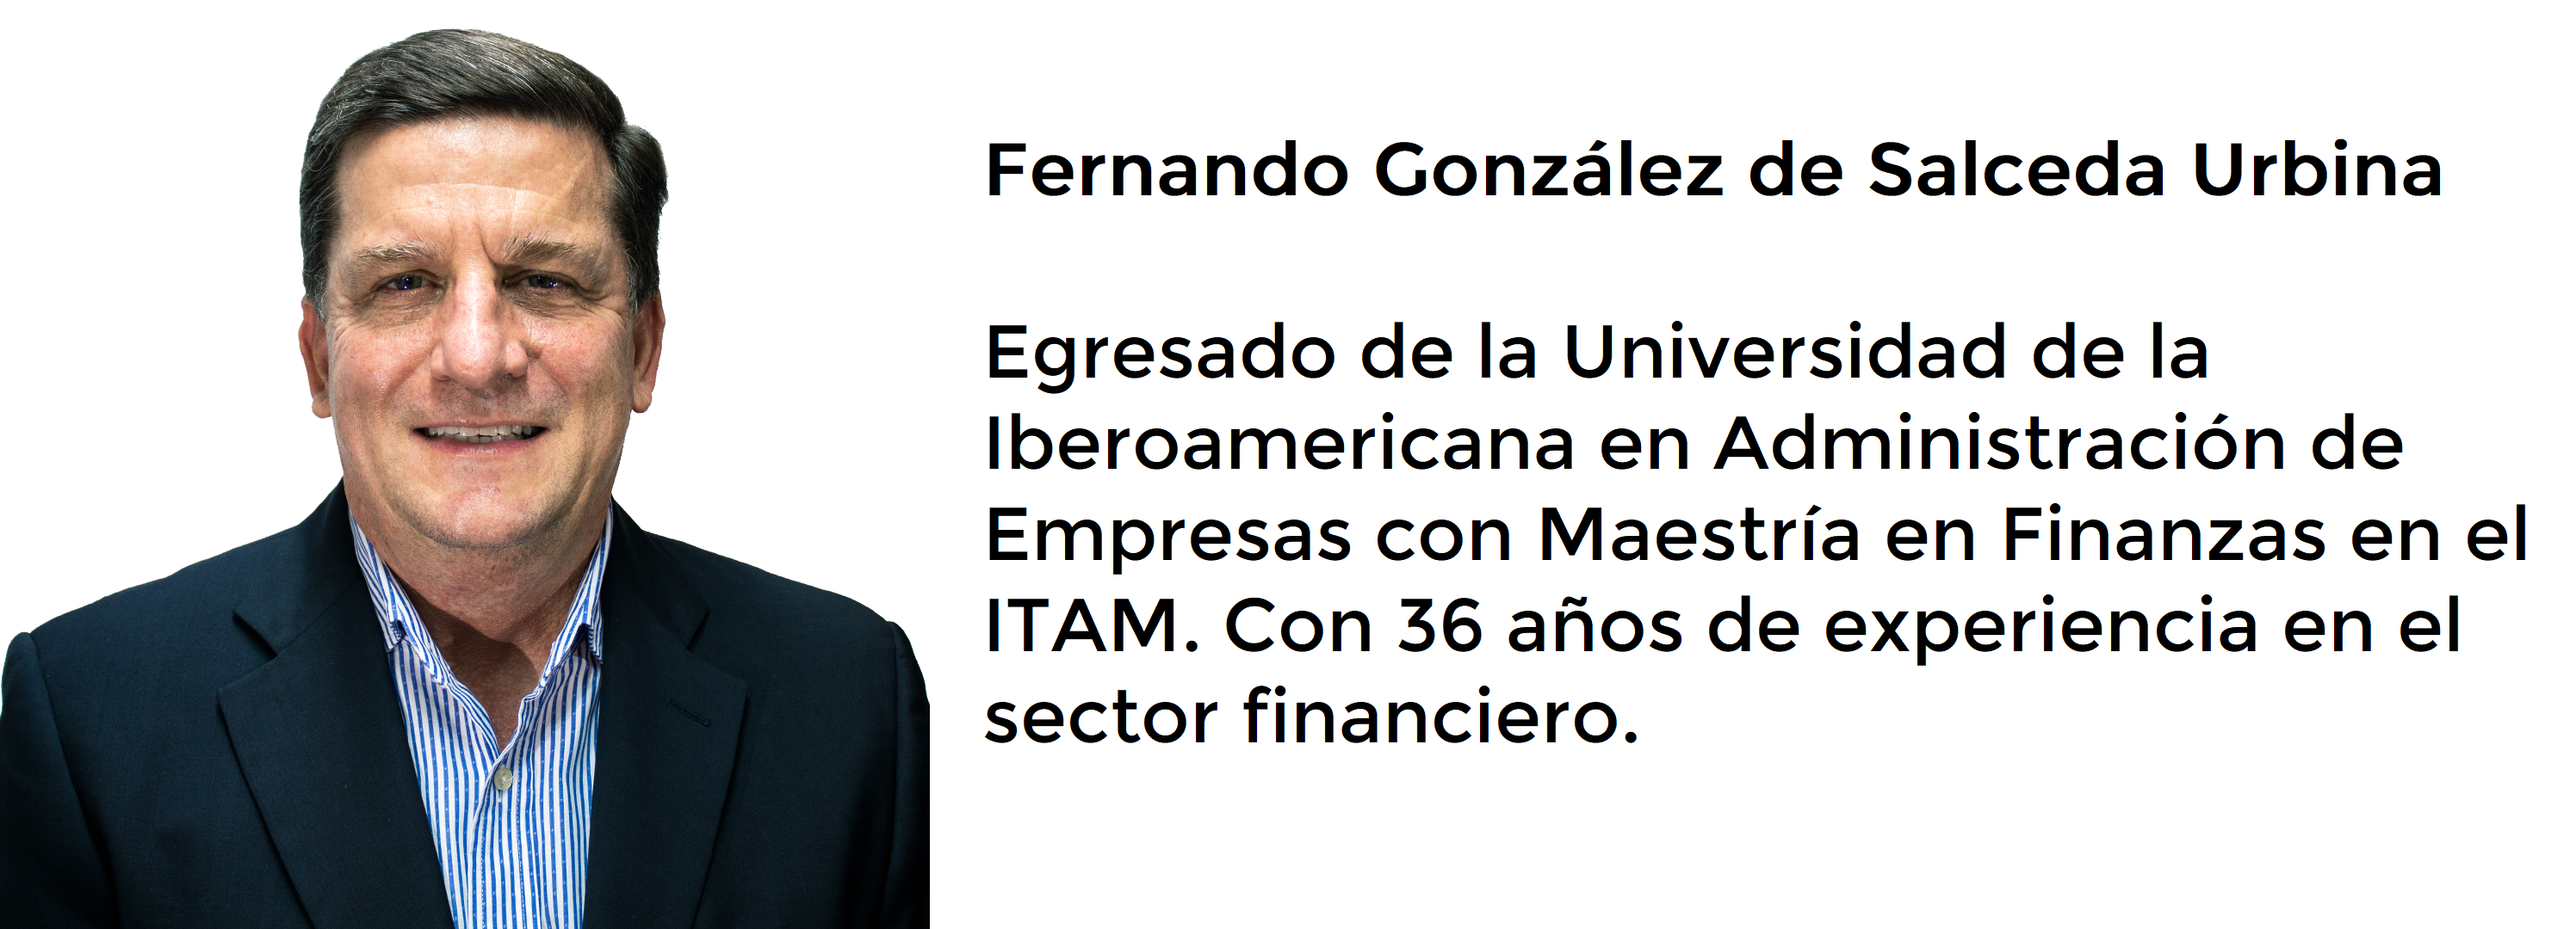
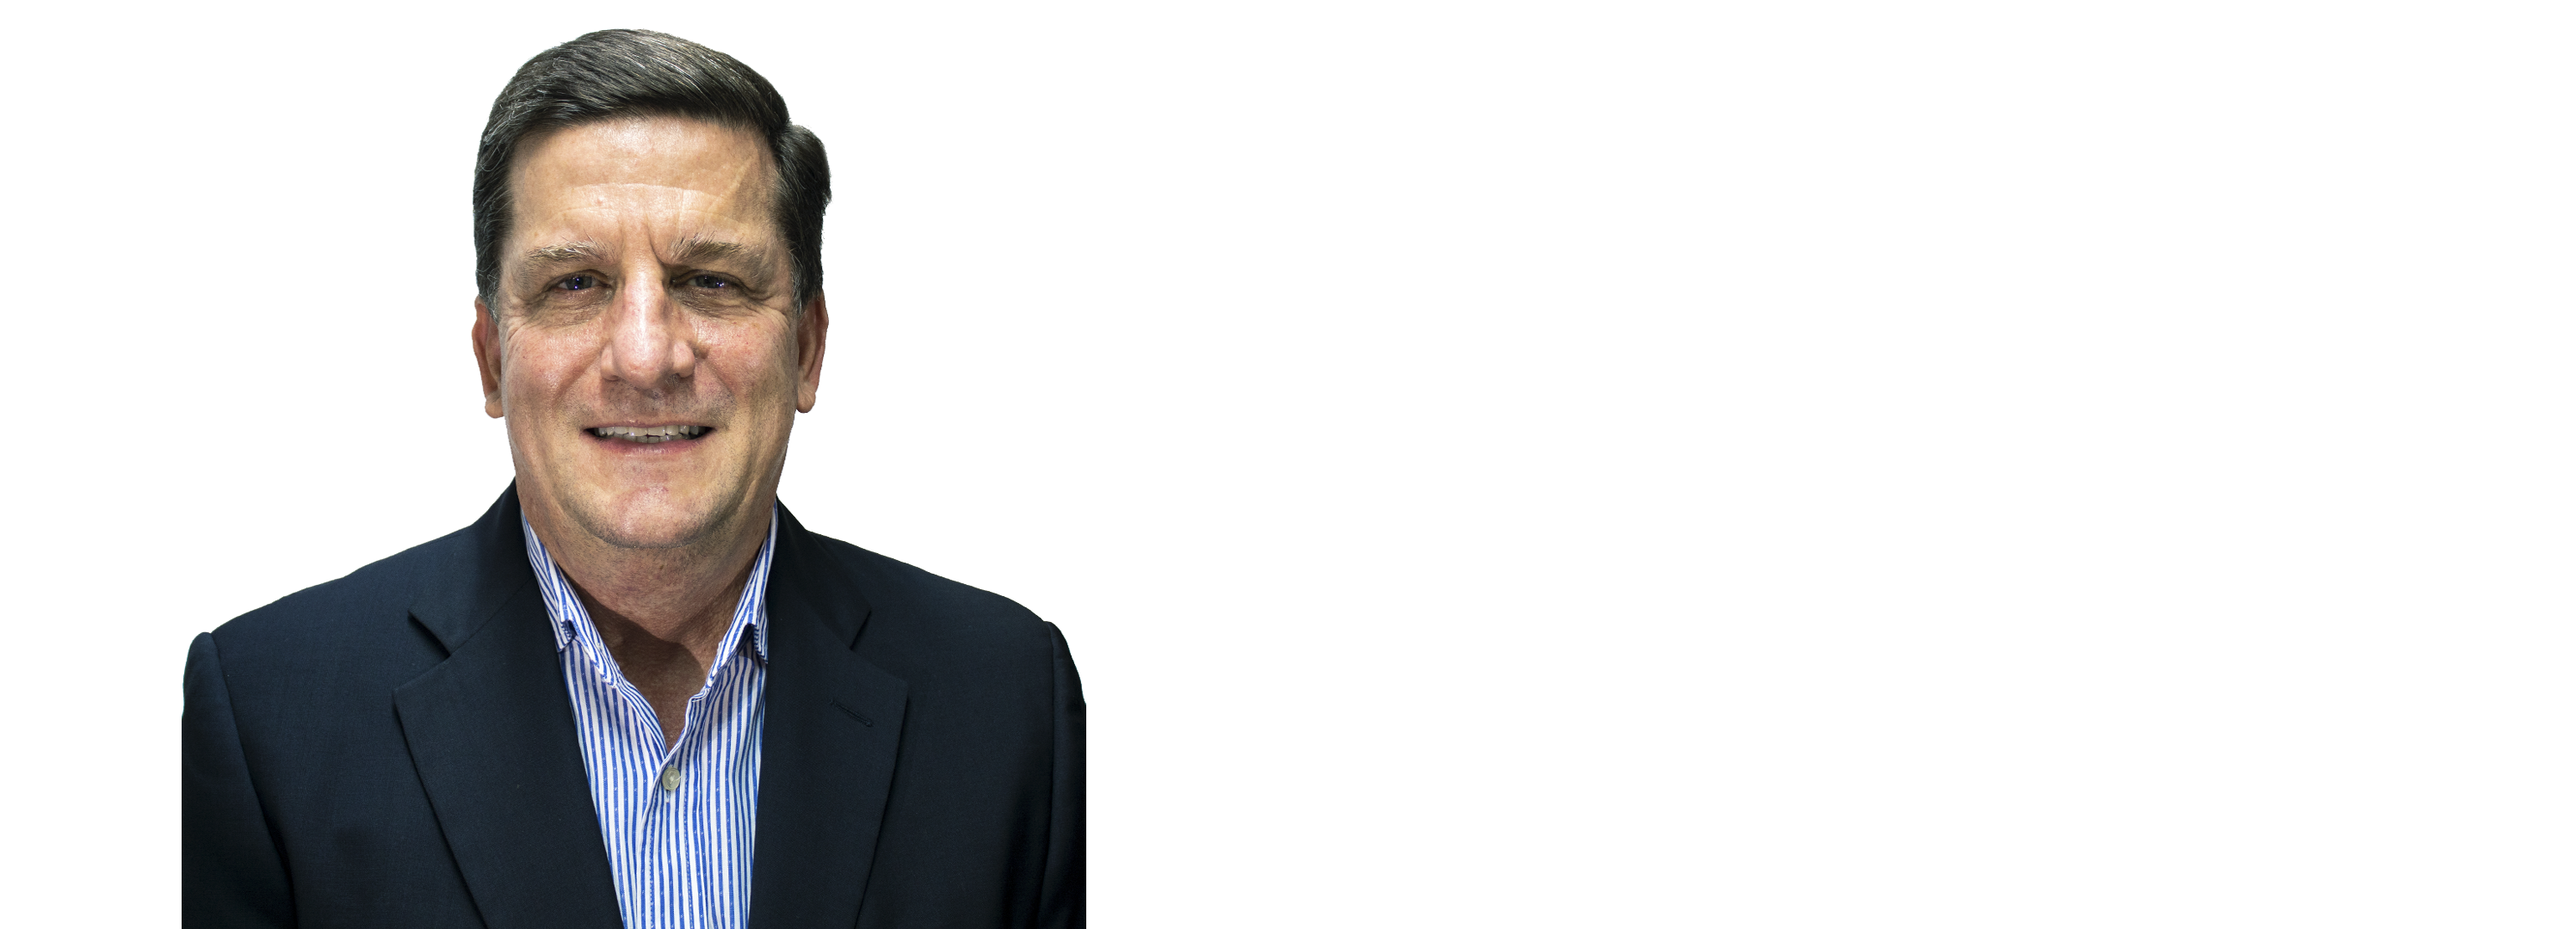
Se agregó modificaciones de diseño aun queda pendiente el panel administrativo

Changed region(s): [[0.0, 0.0306, 0.9987, 1.0], [0.3745, 0.3361, 0.9362, 0.5194], [0.3745, 0.1528, 0.9674, 0.2139]]

diff --git a/public/css/Page/style_main.css b/public/css/Page/style_main.css
@@ -22,7 +22,7 @@ div{
 }
 
 .background-nav{
-	background-color: rgb(0, 72, 119, 0.3) !important;
+	background-color: rgb(0, 72, 119) !important;
 }
 
 .background-service{
@@ -437,4 +437,85 @@ div{
 
 .bg-aserfi-video{
 	background-color: #03293E;
+}
+
+.titulo-secciones-azul{
+	border-right-color: transparent !important;
+    border-left-color: transparent !important;
+    border-bottom-color: #004270;
+    border: 3px solid;
+    padding: 5px;
+}
+
+.titulo-secciones-blanco{
+	border-right-color: transparent !important;
+    border-left-color: transparent !important;
+    border-bottom-color: #FFF;
+    border: 3px solid;
+    padding: 5px;
+}
+
+/* Fundadores */
+.carousel-caption-fundadores{
+	/*background-color: rgb(0, 72, 119, 0.3);*/
+	padding: 15px;
+	text-align: left;/*justify;*/
+	color: #000;
+	right: 10%;
+    bottom: 10px;
+    top: 10px;
+    left: 45%;
+}
+
+.carousel-caption-fundadores p {
+    font-size: 14px;
+	line-height: 18px;
+}
+ 
+.carousel-caption-fundadores h2 {
+	font-size: 20px;
+    line-height: 30px;
+    margin-top: 0px;
+}
+
+.carousel-caption-fundadores .h4 {
+	font-size: 20px;
+    margin-bottom: 30px;
+	margin-top: 8px;
+}
+ 
+.carousel-caption-fundadores img {
+	display: block;
+    max-width: 100%;
+    height: auto;
+    margin: 0 auto;
+}
+ 
+.carousel-caption-fundadores a {
+	border-radius: 0;
+    font-weight: bold;
+    color: #291701;
+	border: none;
+}
+
+
+.carousel-control-prev-icon-fundadores,
+.carousel-control-next-icon-fundadores {
+  height: 100px;
+  width: 100px;
+  
+  background-image: none;
+}
+
+.carousel-control-next-icon-fundadores:after
+{
+  content: '〉';
+  font-size: 55px;
+  color: #CBCBCB;
+}
+
+.carousel-control-prev-icon-fundadores:after {
+  content: '〈';
+  font-size: 55px;
+  color: #CBCBCB;
 }

diff --git a/public/js/Page/JSGeneric.js b/public/js/Page/JSGeneric.js
@@ -16,6 +16,17 @@ $(document).ready(function () {
     }, 1500);
   });
 
+  $( ".hover-title" ).hover(function() {
+    $( this ).removeClass("fadeInLeft animated");
+    setTimeout(function(){
+       $( this ).addClass("fadeInLeft animated");
+    }, 250);
+  }, function() {
+    $( this ).addClass("fadeInLeft animated");
+    
+    
+  });
+
   $('#financiamiento-tab').on('click', function (e) {
     $('#financiamiento-tab').removeClass('jello animated');
     setTimeout(function(){
@@ -36,27 +47,4 @@ $(document).ready(function () {
       $('#patrimonio-tab').addClass('jello animated');
     }, 250);
   });
-
-  new Chart(document.getElementById("pie-chart-1"), {
-    type: 'pie',
-    data: {
-      labels: ["SEGURIDAD", "INTERNACIONALIZACIÓN", "MEJORA DE RENDIMIENTOS"],
-      datasets: [{
-        backgroundColor: ["#00375D", "#3275B3", "#064E8B"],
-        data: [30, 30, 30]
-      }]
-    },
-    options: {
-      legend: {
-        display: false
-      },
-      responsive: true,
-      title: {
-        display: true,
-        text: ''
-      }
-    }
-  });
-
-
 });

diff --git a/resources/views/Page/Index.blade.php b/resources/views/Page/Index.blade.php
@@ -4,7 +4,7 @@
 	<!-- Required meta tags-->
     <meta charset="UTF-8">
     <meta name="viewport" content="width=device-width, initial-scale=1, shrink-to-fit=no">
-    <meta name="description" content="au theme template">
+    <meta name="description" content="Somos una firma de profesionales especializados en el sector financiero, nuestro modelo de negocios se basa en capitalizar la competencia entre instituciones bancarias, para obtener las condiciones más rentables para nuestros clientes, así como los mejores tiempos de respuesta posibles.">
     <meta name="author" content="Arthur CD & Cindy CV">
     <meta name="keywords" content="au theme template">
     <meta name="csrf-token" content="{{ csrf_token() }}">
@@ -84,13 +84,25 @@
 	  				</ol>
   					<div class="carousel-inner carousel-inner-index">
     					<div class="carousel-item active">
-      						<img class="d-block w-100" src="{{asset('img/slider/seccion1.png')}}" alt="First slide">
+      						<img class="d-block w-100" src="{{asset('img/slider/Banner_1_Seccion1.png')}}" alt="First slide">
       						<div class="carousel-caption d-none d-md-block center-text-carousel">
                     <h1 class="bounceIn animated h1-class">LA SITUACIÓN DEL MERCADO</h5>
                     <h1 class="bounceIn animated h1-class"><b>A TU FAVOR</b></h5>
                     <p></p>
                   </div>
     					</div>
+              <div class="carousel-item ">
+                  <img class="d-block w-100" src="{{asset('img/slider/Banner_2_Seccion1.png')}}" alt="First slide">
+                  
+              </div>
+              <div class="carousel-item ">
+                  <img class="d-block w-100" src="{{asset('img/slider/Banner_3_Seccion1.png')}}" alt="First slide">
+                  
+              </div>
+              <!--<div class="carousel-item ">
+                  <img class="d-block w-100" src="{{asset('img/slider/Banner_4_Seccion1.png')}}" alt="First slide">
+                  
+              </div>-->
   					</div>
 	  				<a class="carousel-control-prev" href="#carouselIndicators" role="button" data-slide="prev">
     					<span class="carousel-control-prev-icon" aria-hidden="true"></span>
@@ -116,7 +128,7 @@
 	<div id="quienessomos">
 		<div class="container">
 			<div class="col-lg-12">
-				<h1 class="text-center fadeInLeft animated"><b>¿QUIÉNES SOMOS?</b></h1>
+				<h1 class="text-center hover-title fadeInLeft animated"><b class="titulo-secciones-azul">¿QUIÉNES SOMOS?</b></h1>
 				<div class="row">
           <div class="col-lg-1"> </div>
           <div class="col-lg-10">
@@ -136,26 +148,30 @@
                     <div class="carousel-inner">
                       <div class="carousel-item active">
                         <img class="d-block w-100" src="{{asset('img/fundadores/fundador_slider01.png')}}" alt="First slide">
-                        <div class="carousel-caption d-none d-md-block center-text-carousel">
-                          
+                        <div class="carousel-caption carousel-caption-fundadores">
+                          <h2><b>Fernando González de Salceda Urbina</b></h2>
+                          <p class="h4">Egresado de la Universidad de la Iberoamericana en Administración de Empresas con Maestría en Finanzas en el ITAM. Con 36 años de experiencia en el sector financiero.</p>
                         </div>
                       </div>
 
                       <div class="carousel-item">
                         <img class="d-block w-100" src="{{asset('img/fundadores/fundador_slider02.png')}}" alt="First slide">
-                        <div class="carousel-caption d-none d-md-block center-text-carousel">
-                          
+                        <div class="carousel-caption carousel-caption-fundadores">
+                          <h2><b>Fernando González de Salceda Heshem</b></h2>
+                          <p class="h4">Egresado del Tecnológico de monterrey Campus Monterrey de la carrera de Ingeniería industrial con certificación en figura 3 de la Asociación Mexicana de Intermediario Bursátiles</p>
                         </div>
                       </div>
                     </div>
-                    <!--<a class="carousel-control-prev" href="#indicators" role="button" data-slide="prev">
-                      <span class="carousel-control-prev-icon" aria-hidden="true"></span>
+
+                    <a class="carousel-control-prev" href="#indicators" role="button" data-slide="prev">
+                      <span class="carousel-control-prev-icon carousel-control-prev-icon-fundadores" aria-hidden="true"></span>
                       <span class="sr-only">Previous</span>
                     </a>
                     <a class="carousel-control-next" href="#indicators" role="button" data-slide="next">
-                      <span class="carousel-control-next-icon" aria-hidden="true"></span>
+                      <span class="carousel-control-next-icon carousel-control-next-icon-fundadores" aria-hidden="true"></span>
                       <span class="sr-only">Next</span>
-                    </a>-->
+                    </a>
+
                   </div>
                 </div>
               </div>
@@ -168,7 +184,7 @@
 	</div>
 
     <!-- Quienes Somos -->
-  <div id="video-aserfi" class="bg-aserfi-video" style="margin-top: 50px; margin-bottom: 50px;">
+  <div id="video-aserfi" class="bg-aserfi-video" style="margin-top: 50px; margin-bottom: 1px;">
     <div class="container">
       <div class="col-lg-12">
         <div class="row">
@@ -189,11 +205,9 @@
 		<div class="container color-nav-text">
 			<div class="col-lg-12" >
         <div class="row">
-          <div class="col-lg-1"> </div>
-          <div class="col-lg-10">
-            <h1 style="padding-top: 50px;"><b>SERVICIOS</b></h1>
+          <div class="col-lg-12 text-center">
+            <h1 class="hover-title " style="padding-top: 50px;"><b class="titulo-secciones-blanco">SERVICIOS</b></h1>
           </div>
-          <div class="col-lg-1"> </div>
         </div>
 				<div class="row" >
           <div class="col-lg-1"> </div>
@@ -260,7 +274,7 @@
 	<div id="beneficios">
 		<div class="">
 			<div class="col-lg-12 ">
-				<h1 class="text-center"><b>BENEFICIOS</b></h1>
+				<h1 class="text-center hover-title "><b class="titulo-secciones-azul">BENEFICIOS</b></h1>
           
 					<ul class="nav nav-fill nav-tabs nav-beneficios" id="tabBeneficios" role="tablist" style="margin-top: 40px; margin-bottom: 39px;">
   						<li class="nav-item">
@@ -277,7 +291,7 @@
 				<div class="tab-content">
 					<div class="tab-pane active" id="financiamiento" role="tabpanel" aria-labelledby="financiamiento-tab">
 						
-						<div class="row fadeInLeft animated">
+						<div class="row hover-title fadeInLeft animated">
 							<div class="rectangle-md">
 								<div class="col-lg-12 arrow-center">
 									AHORROS EN TIEMPO DE RESPUESTA
@@ -285,7 +299,7 @@
 							</div>
 							<div class="arrow-md" style="border-left: 50px solid #152C50 !important"></div>
 						</div>
-						<div class="row fadeInLeft animated">
+						<div class="row hover-title fadeInLeft animated">
 							<div class="rectangle-md" style="background-color: #284778 !important; width: 63% !important;">
 								<div class="col-lg-12 arrow-center">
 									ELABORACIÓN DE PROYECTOS A LA MEDIDA
@@ -293,7 +307,7 @@
 							</div>
 							<div class="arrow-md" style="border-left: 50px solid #284778 !important"></div>
 						</div>
-						<div class="row fadeInLeft animated">
+						<div class="row hover-title fadeInLeft animated">
 							<div class="rectangle-md" style="background-color: #284778 !important; width: 67% !important;">
 								<div class="col-lg-12 arrow-center">
 									SELECCIÓN DE INSTITUCIÓN ESPECIALIZADA
@@ -301,7 +315,7 @@
 								</div>
 							<div class="arrow-md" style="border-left: 50px solid #284778 !important"></div>
 						</div>
-						<div class="row fadeInLeft animated">
+						<div class="row hover-title fadeInLeft animated">
 							<div class="rectangle-md" style="background-color: #4275B1 !important; width: 75% !important;">
 								<div class="col-lg-12 arrow-center">
 									MEJORA DE TÉRMINOS Y CONDICIONES
@@ -309,7 +323,7 @@
 							</div>
 							<div class="arrow-md" style="border-left: 50px solid #4275B1 !important"></div>
 						</div>
-						<div class="row fadeInLeft animated">
+						<div class="row hover-title fadeInLeft animated">
 							<div class="rectangle-md" style="background-color: #4E74B1 !important; width: 70% !important;">
 								<div class="col-lg-12 arrow-center">
 									MITIGACIÓN DE RIESGOS
@@ -321,23 +335,23 @@
 					</div>
 
 					<div class="tab-pane" id="inversiones" role="tabpanel" aria-labelledby="inversiones-tab">
-            <div class="row">
-              <div class="col-lg-4 col-sm-4"></div>
-              <div class="col-lg-4 col-sm-4 jello animated">
-                <canvas id="pie-chart-1" width="50" height="50"></canvas>
+            <div class="row fadeInLeft animated">
+              <div class="col-lg-2"></div>
+              <div class="col-lg-8">
+                <img class="d-block w-100" src="{{asset('img/beneficios/inversiones.png')}}" alt="First slide">
               </div>
-              <div class="col-lg-4 col-sm-4"></div>
+              <div class="col-lg-2"></div>
             </div>
 					</div>
   				<div class="tab-pane" id="patrimonio" role="tabpanel" aria-labelledby="patrimonio-tab">
-						<div class="row fadeInLeft animated">
+						<div class="row hover-title fadeInLeft animated">
               <div class="rectangle-md" style="background-color: #284778 !important; width: 50% !important;">
                 <div class="col-lg-12 arrow-center">
                   ASESORAMIENTO
                 </div>
               </div>
             </div>
-            <div class="row fadeInLeft animated">
+            <div class="row hover-title fadeInLeft animated">
               <div class="rectangle-md" style="background-color: #4275B1 !important; width: 60% !important;">
                 <div class="col-lg-12 arrow-center">
                   DIVERSIFICACIÓN
@@ -345,7 +359,7 @@
               </div>
               
             </div>
-            <div class="row fadeInLeft animated">
+            <div class="row hover-title fadeInLeft animated">
               <div class="rectangle-md" style="background-color: #4E74B1 !important; width: 70% !important;">
                 <div class="col-lg-12 arrow-center">
                   RENTABILIDAD  
@@ -407,19 +421,16 @@
     	  					<a href="#" class="btn btn-success btn-aserfi btn-round">
     	  						<i class="fas fa-map-marker-alt"></i>
     	  					</a>
-        					<span style="margin-left: 15px;"><b>Ubicación</b></span>
+        					<span style="margin-left: 15px;">Calle 16 No. 61A x 3 y 5 C.P. 97139</span>
         					<ol style="margin-left: 20px;">
-        						Calle 16 No. 61A x 3 y 5 C.P. 97139 </br>San Antonio Cinta. Mérida, Yucatán.
+        						 San Antonio Cinta. Mérida, Yucatán.
         					</ol>
       						
       						<a href="#" class="btn btn-success btn-aserfi btn-round">
     	  						<i class="fas fa-phone"></i>
     	  					</a>
-        					<span style="margin-left: 15px;"><b>Teléfono</b></span>
+        					<span style="margin-left: 15px;">(999) 422 5312</span>
         					
-        					<ol style="margin-left: 20px;">
-        						(999) 422 5312
-        					</ol>
         					<ol style="margin-left: 20px;">
         						(999) 322 8638
         					</ol>
@@ -427,11 +438,8 @@
       						<a href="#" class="btn btn-success btn-aserfi btn-round">
     	  						<i class="fas fa-envelope"></i>
     	  					</a>
-        					<span style="margin-left: 15px;"><b>Correo</b></span>
+        					<span style="margin-left: 15px;">fgonzalez@aserfi.mx</span>
         					
-        					<ol style="margin-left: 20px;">
-        						fgonzalez@aserfi.mx
-        					</ol>
     	  				</ul>
 					</div>
 					<div class="col-lg-1"></div>
